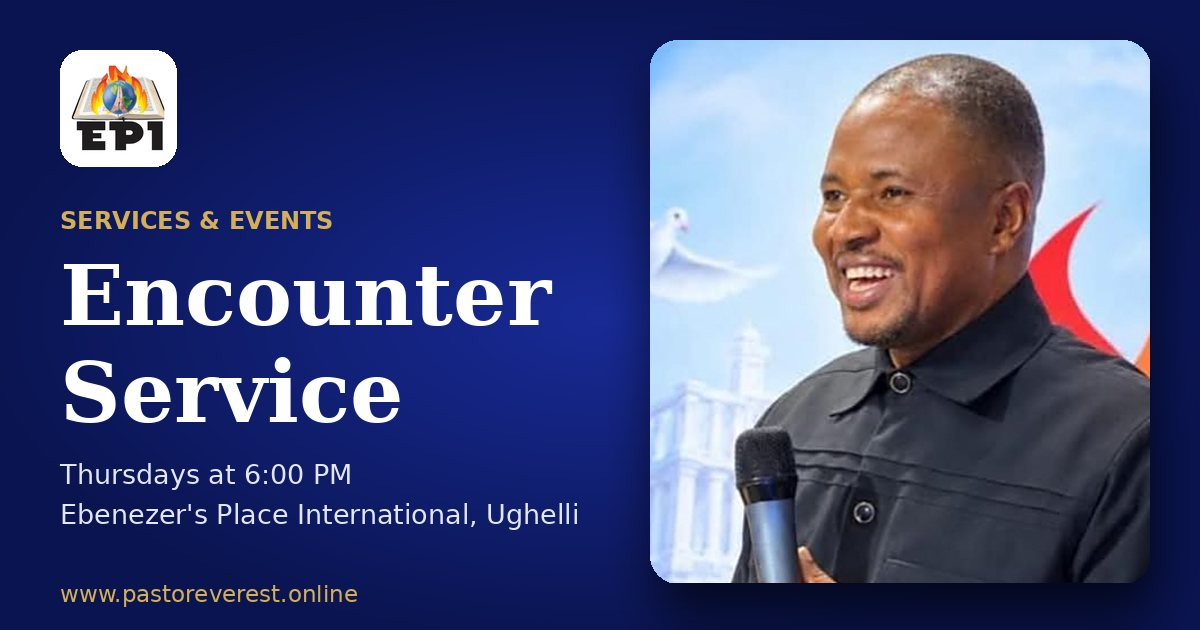
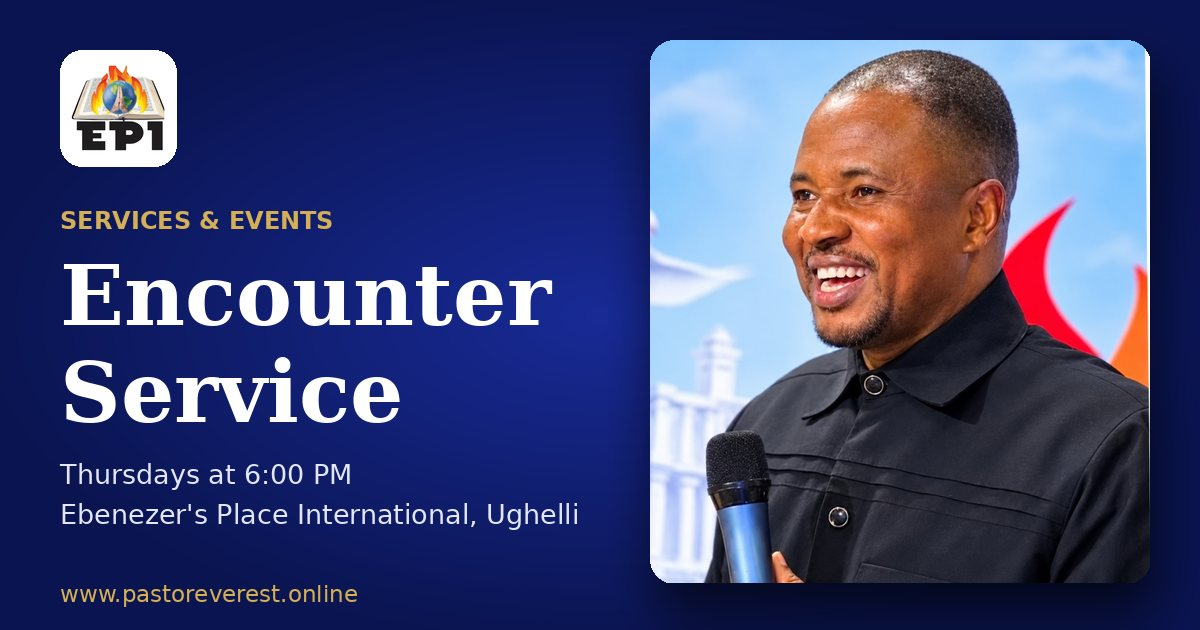
Cleaner hero portrait, standing cutout after the hero, regenerated link previews

Changed region(s): [[0.5242, 0.0603, 0.9558, 0.9349]]

diff --git a/src/components/Hero.tsx b/src/components/Hero.tsx
@@ -30,9 +30,9 @@ export default function Hero() {
           {/* Photo panel with the gold name tag (tag sits on the background, never on his face) */}
           <div className="relative">
             <div className="relative aspect-[4/3.3] overflow-hidden rounded-[1.75rem] shadow-[0_34px_50px_-24px_rgba(0,0,0,.85)] md:aspect-auto md:h-[min(66svh,640px)]">
-              <img src="/images/pastor-everest-smiling-at-the-pulpit.webp" width={724} height={478} fetchPriority="high"
+              <img src="/images/pastor-everest-smiling-at-the-pulpit.webp" width={1128} height={1232} fetchPriority="high"
                 alt="Pastor Everest Chinakwaeze smiling and holding a microphone at Ebenezer's Place International Ministry, Ughelli"
-                className="hero-img h-full w-full object-cover object-[74%_18%]" />
+                className="hero-img h-full w-full object-cover object-[50%_22%]" />
             </div>
             <div className="rv-fade torn absolute -top-4 left-3 z-20 -rotate-[7deg] bg-gold px-5 py-3 text-center text-xs font-extrabold uppercase leading-tight tracking-wide text-deep shadow-lg md:-left-3 md:text-sm" style={d(900)} aria-hidden="true">Lead Pastor<br />Ughelli, Delta State</div>
           </div>

diff --git a/src/pages/About.tsx b/src/pages/About.tsx
@@ -1,5 +1,6 @@
 import PressButton from '../components/PressButton';
 import CardStack from '../components/CardStack';
+import Standing from '../components/Standing';
 import { useGallery } from '../lib/gallery';
 import ScrollText from '../components/ScrollText';
 import { useSeo } from '../lib/seo';
@@ -12,9 +13,7 @@ export default function About() {
   return (
     <>
     <div className="mx-auto grid max-w-6xl gap-12 px-5 py-16 md:grid-cols-[1fr_1.3fr] md:py-24">
-      <img src="/images/pastor-everest-smiling-at-the-pulpit.webp" width={724} height={478} loading="eager"
-        alt="Pastor Everest Chinakwaeze at Ebenezer's Place International Ministry in Ughelli"
-        className="morph aspect-[4/5] w-full object-cover object-[68%_14%] md:sticky md:top-28 md:self-start" />
+      <Standing className="md:sticky md:top-28 md:self-start" />
       <div className="max-w-xl">
         <h1 className="text-5xl font-extrabold md:text-6xl">About Pastor Everest Chinakwaeze</h1>
         <p className="mt-6">Pastor Everest Chinakwaeze, also addressed as Evang. Everest Chinakwaeze, is the Lead Pastor and General Overseer of {site.church} (EPI), a pastor in Ughelli, Delta State, Nigeria.</p>

diff --git a/src/pages/Home.tsx b/src/pages/Home.tsx
@@ -10,6 +10,7 @@ import CardStack from '../components/CardStack';
 import EventCard from '../components/EventCard';
 import PressButton, { FbIcon } from '../components/PressButton';
 import Reveal from '../components/Reveal';
+import Standing from '../components/Standing';
 
 export default function Home() {
   useSeo('/');
@@ -24,7 +25,7 @@ export default function Home() {
       <StackCard z={10} first>
         <div className="mx-auto grid max-w-6xl items-center gap-12 px-5 md:grid-cols-[1fr_1.2fr] md:gap-16" aria-labelledby="welcome">
           <Reveal className="mx-auto w-full max-w-md">
-            <img src="/images/pastor-everest-smiling-at-the-pulpit.webp" alt="Pastor Everest Chinakwaeze, Lead Pastor of Ebenezer's Place International Ministry" loading="lazy" className="morph aspect-[4/5] w-full object-cover object-[68%_14%]" />
+            <Standing />
           </Reveal>
           <Reveal delay={120}>
             <p className="text-sm font-bold uppercase tracking-[.2em] text-royal">Welcome</p>

diff --git a/src/components/Standing.tsx b/src/components/Standing.tsx
@@ -1,0 +1,13 @@
+/** The standing cutout of Pastor Everest rising out of a navy panel (no photo background). */
+export default function Standing({ className = '' }: { className?: string }) {
+  return (
+    <div className={`relative mx-auto w-full max-w-sm pt-14 ${className}`}>
+      <div className="absolute inset-x-0 bottom-0 top-24 overflow-hidden rounded-[1.5rem] bg-gradient-to-b from-royal to-deep shadow-[0_34px_44px_-24px_rgba(10,20,80,.8)]" aria-hidden="true">
+        <div className="pattern absolute inset-0 opacity-50" />
+      </div>
+      <img src="/images/pastor-everest-standing.webp" width={524} height={905} loading="lazy"
+        alt="Pastor Everest Chinakwaeze standing and smiling with a microphone"
+        className="relative z-10 mx-auto h-auto w-[88%] drop-shadow-[0_26px_30px_rgba(0,0,0,.55)]" />
+    </div>
+  );
+}
